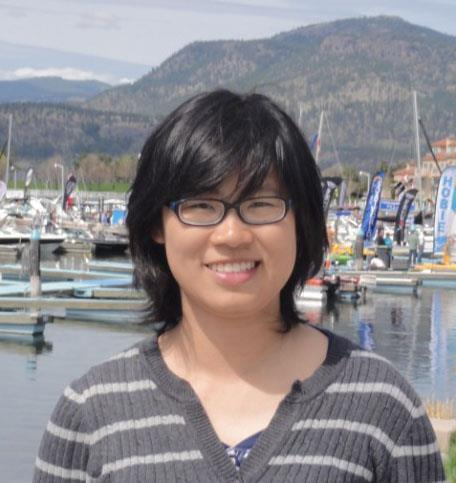
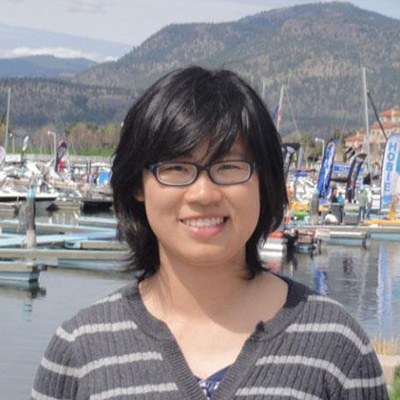
Add Roya's image to about us and fix up layout

diff --git a/frontend/src/components/AboutUs.jsx b/frontend/src/components/AboutUs.jsx
@@ -2,6 +2,7 @@ import React from 'react'
 import './AboutUs.scss';
 import eileenPic from '../media/profile-images/eileen-xue.jpg';
 import yanbinPic from '../media/profile-images/yanbin-yuan.jpg';
+import royaPic from '../media/profile-images/roya-chobineh.jpg';
 
 import reactLogo from '../media/tech-stack/react-logo.png';
 import sassLogo from '../media/tech-stack/sass-logo.png';
@@ -34,7 +35,7 @@ export default function AboutUs() {
           </article>
           <article>
             <div className="about--profile-pic">
-              Face Image
+              <img src={royaPic} alt="Roya Chobineh"/>
             </div>
             <div className="about--profile-blurb">
               <h2>Roya Chobineh</h2>

diff --git a/frontend/src/components/AboutUs.scss b/frontend/src/components/AboutUs.scss
@@ -15,7 +15,7 @@
 
     img{
       border-radius: 50%;
-      width: 100%;
+      width: 250px;
       box-shadow: 5px 5px 8px #6495ed7a;
       transition: all .2s ease-in-out;
       border: 5px solid white;
